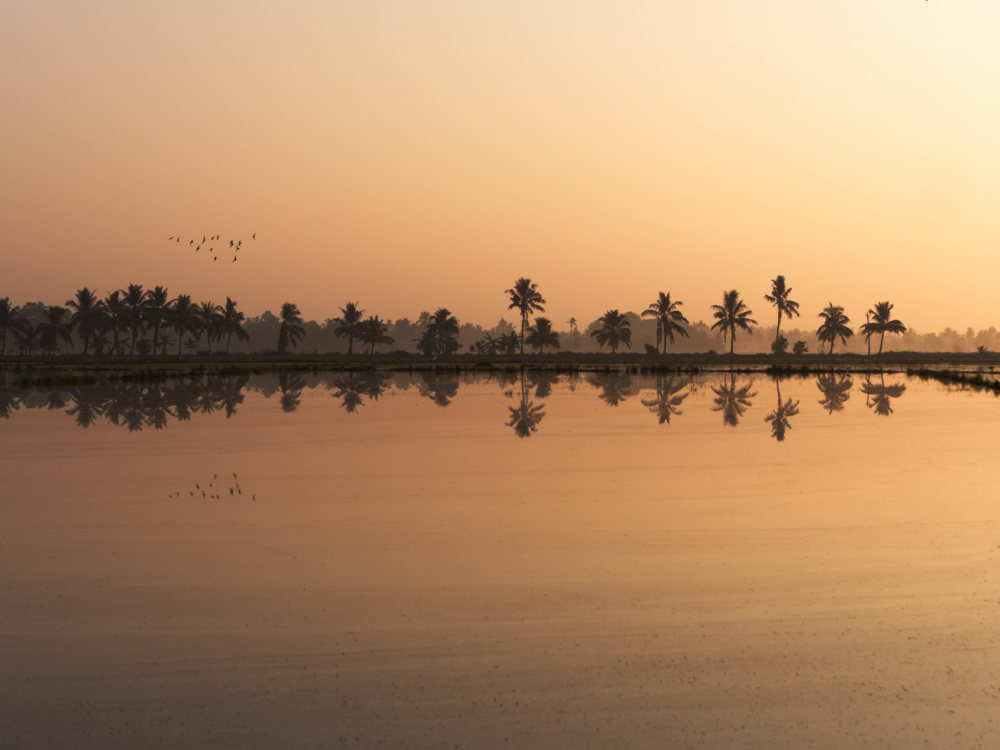
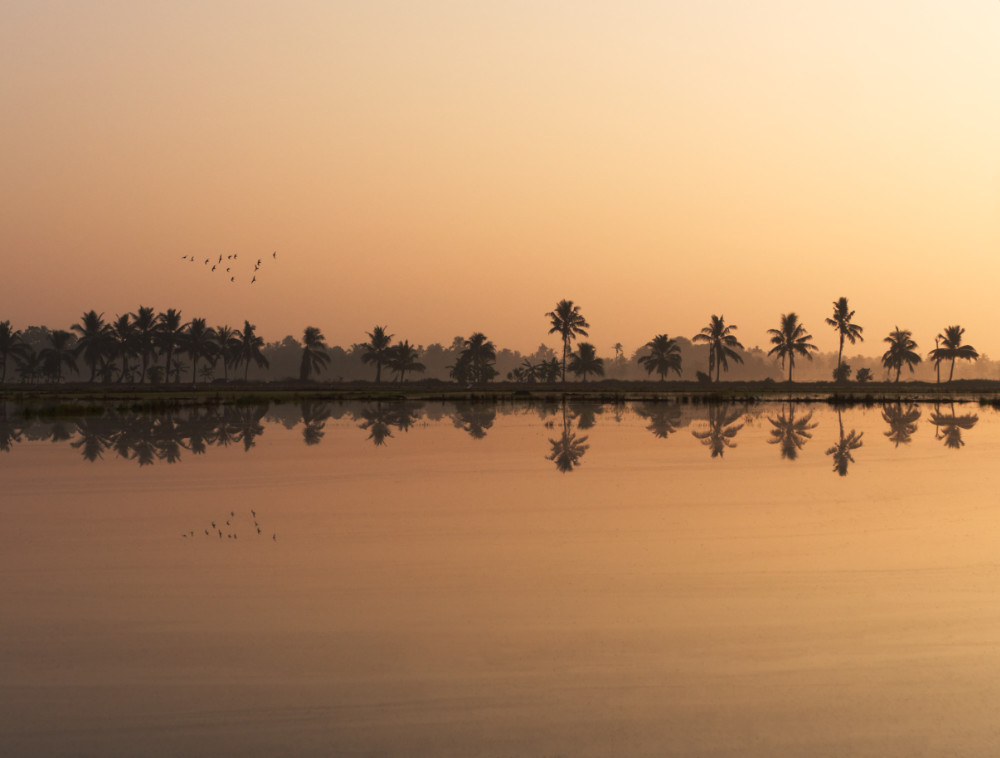
new title image

Changed region(s): [[0.0, 0.368, 1.0, 0.644], [0.434, 0.828, 1.0, 0.9507], [0.992, 0.92, 1.0, 0.9507]]

diff --git a/index.html b/index.html
@@ -33,7 +33,7 @@
       <!-- Photo Grid -->
       <div class="w3-row" id="myGrid" style="margin-bottom:128px;margin-left:15%">
 	<div class="w3-col">
-	  <a href="gallery.html"><img class="w3-card-4" src="images/photos/y2020/nol/nol_12Dec2020_02_lq.jpg"
+	  <a href="gallery.html"><img class="w3-card-4" src="images/photos/y2021/waterscapes/nol_02Jan2021_02_lq.jpg"
 				      alt="landscape" style="width:80%"></a>
 	</div>
       </div>
